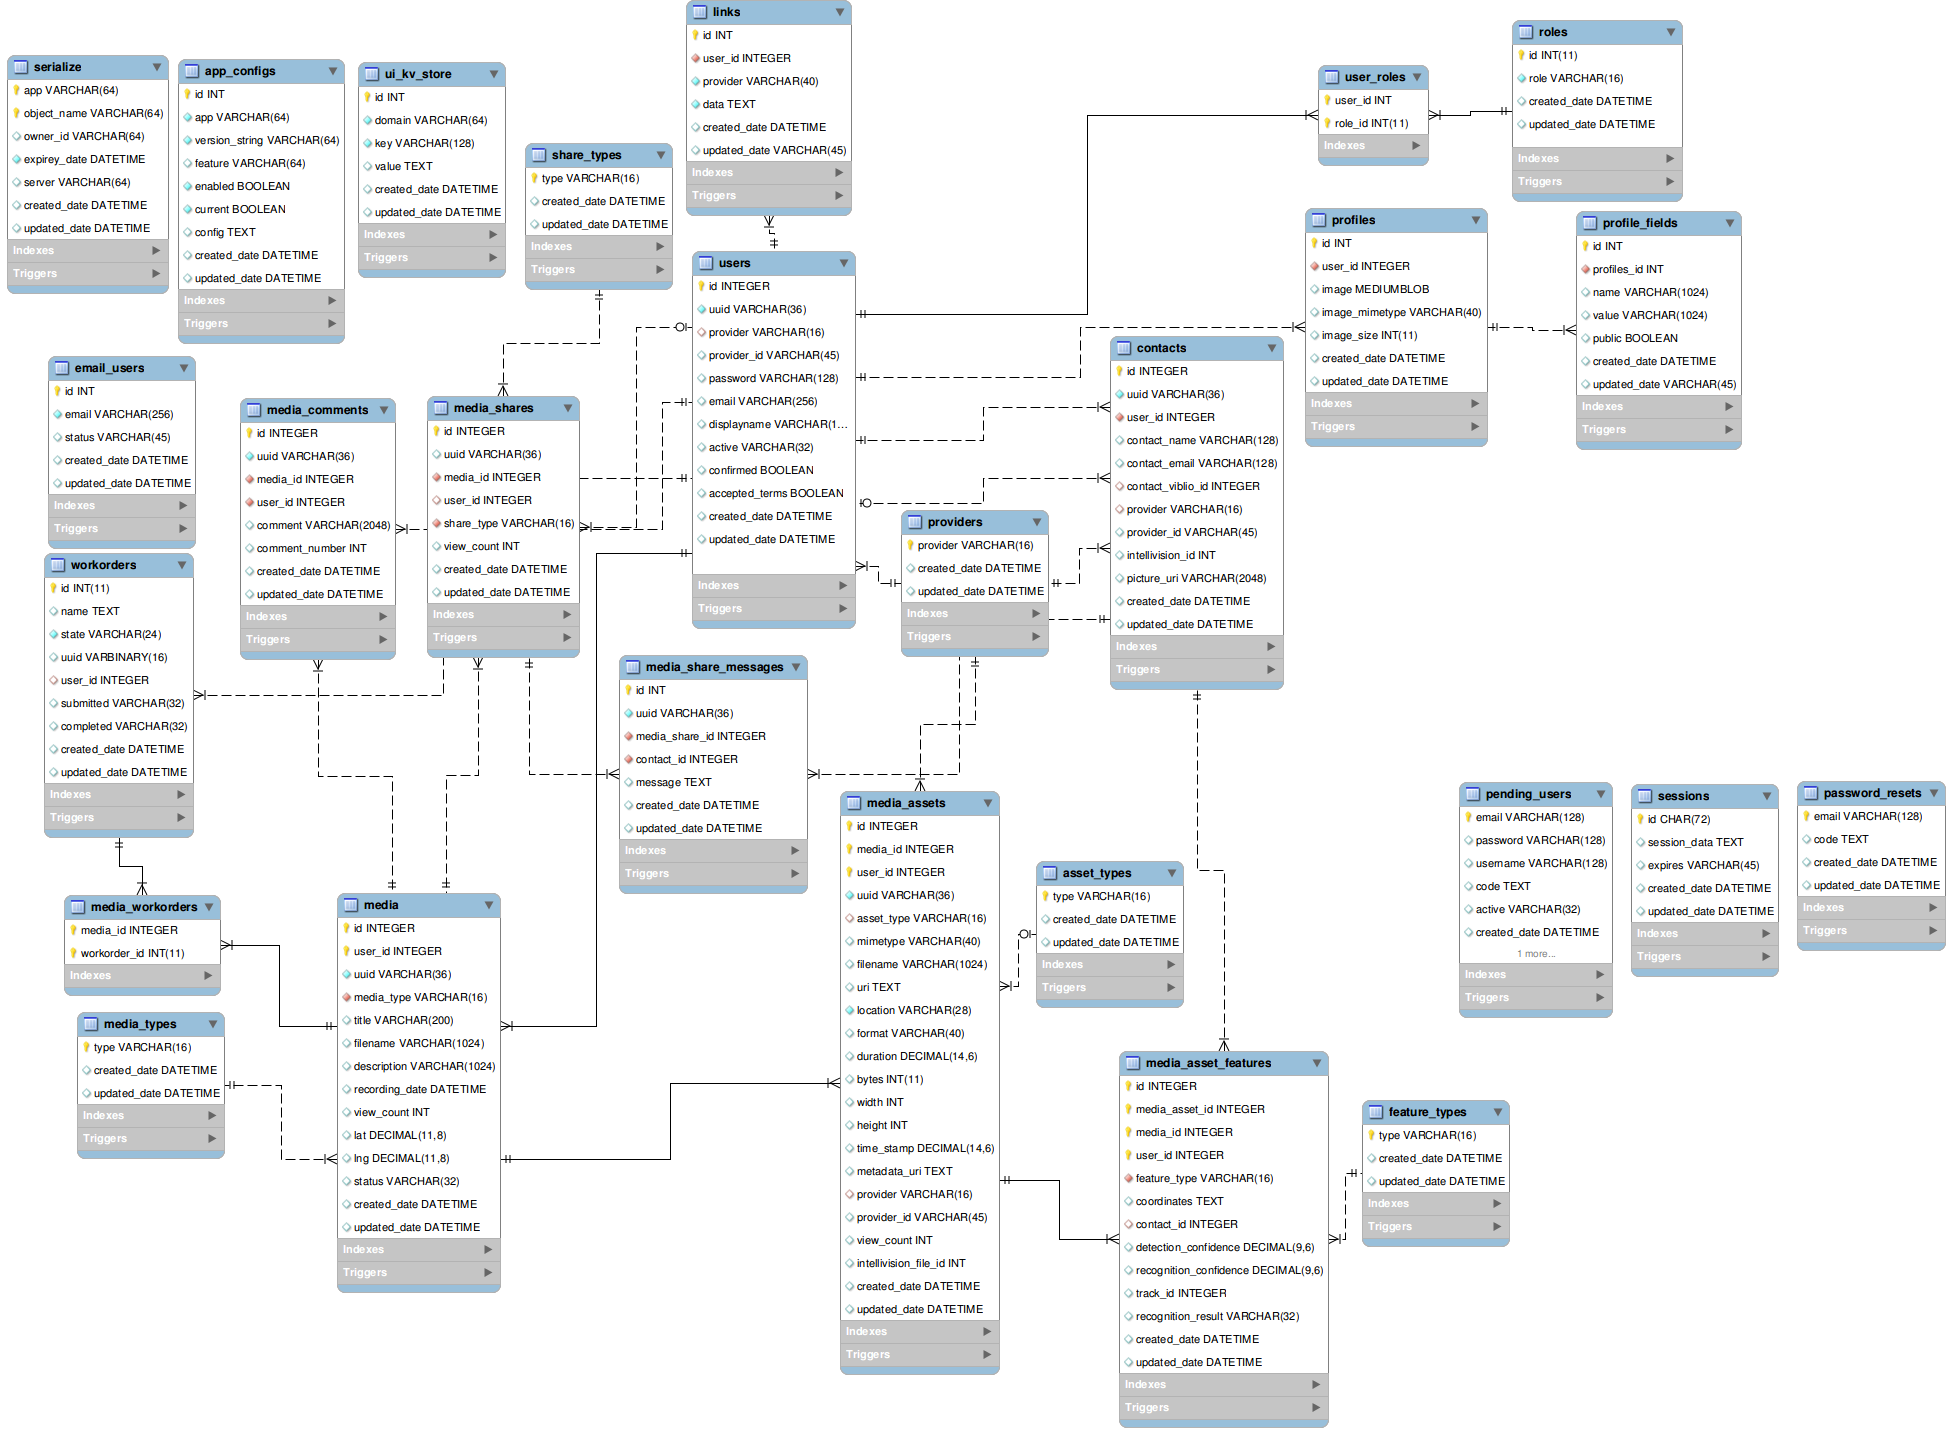
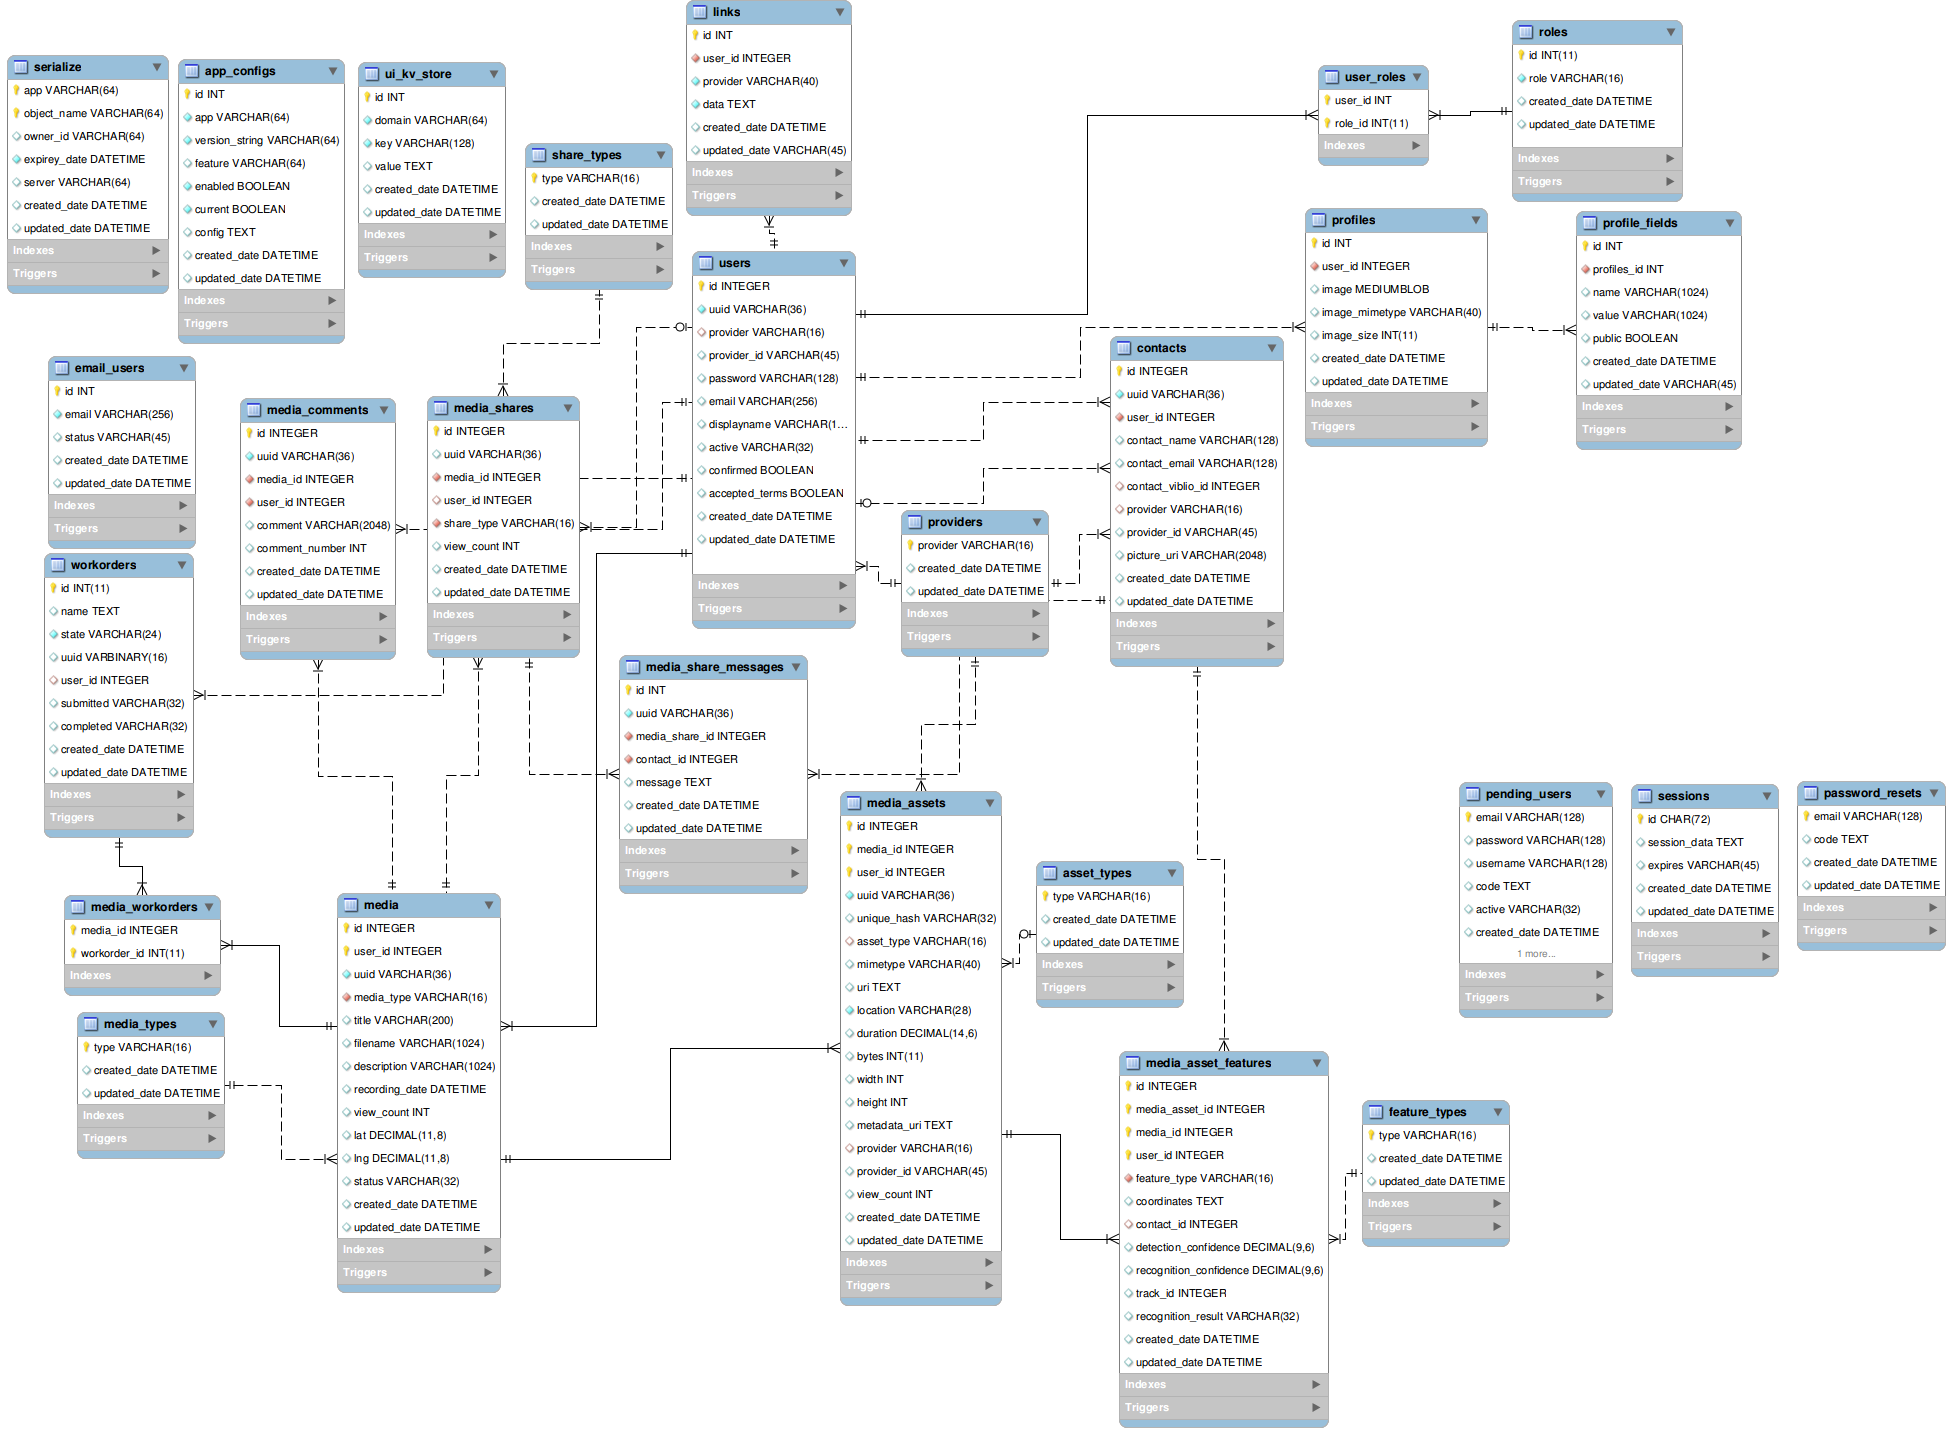
Server side file de-duplication

Changed region(s): [[0.405, 0.622, 0.5296, 0.9641], [0.5608, 0.3732, 0.6542, 0.4976]]

diff --git a/popeye/worker.py b/popeye/worker.py
@@ -2,6 +2,7 @@
 import boto.swf.layer2 as swf
 import datetime
 import fcntl
+import hashlib
 import hmac
 import json
 import logging
@@ -178,6 +179,48 @@ class Worker( Background ):
         if 'finalLength' in self.data['info'] and self.data['info']:
             log.debug( 'JSON finalLength is: ' + str( self.data['info']['finalLength'] ) )
 
+        # Check if we've already seen this file for this user.
+        unique_hash = None
+        try:
+            log.info( 'Computing MD5SUM for input file: %s' % ( files['main']['ifile'] ) )
+            
+            f = open( files['main']['ifile'], 'rb' )
+            md5 = hashlib.md5()
+            while True:
+                file_data = f.read( 1048576 )
+                if not file_data:
+                    break
+                md5.update( file_data )
+            unique_hash = md5.hexdigest()
+            f.close()
+
+            log.debug( 'Getting the current user from the database for uid: %s' % ( self.data['info']['uid'] ) )
+            user = orm.query( Users ).filter_by( uuid = self.data['info']['uid'] ).one()
+
+            log.debug( 'Checking uniqueness of file with hash %s for uid %s' % ( unique_hash, self.data['info']['uid'] ) )
+            db_files = orm.query( Media ).filter( and_( Media.user_id == user.id, Media.unique_hash == unique_hash ) ).all()
+
+            if len( db_files ) == 0:
+                log.info( 'File with hash %s for user uuid %s is unique, proceeding.' % ( unique_hash, self.data['info']['uid'] ) )
+            else:
+                log.info( 'File with hash %s for user uuid %s is not unique, terminating.' % ( unique_hash, self.data['info']['uid'] ) )
+                self.handle_errors()
+                self.__release_lock()
+                if self.popeye_logging_handler:
+                    self.popeye_log.removeHandler( self.popeye_logging_handler )
+                    self.popeye_logging_handler = None
+                return
+
+        except Exception as e:
+            self.__safe_log( self.popeye_log.exception, 'Failed to determine uniqueness of uploaded file: %s' % ( e ) )
+            self.handle_errors()
+            self.__release_lock()
+            if self.popeye_logging_handler:
+                self.popeye_log.removeHandler( self.popeye_logging_handler )
+                self.popeye_logging_handler = None
+            raise
+
+
         # Load data from _metadata.json into self.data['metadata']
         log.info( 'Initializing metadata field from JSON file: ' + files['metadata']['ifile'] )
         self.__initialize_metadata( files['metadata']['ifile'] )
@@ -232,7 +275,8 @@ class Worker( Background ):
                            filename       = client_filename,
                            title          = media_title,
                            view_count     = 0,
-                           status         = 'PopeyeComplete' )
+                           status         = 'PopeyeComplete',
+                           unique_hash    = unique_hash )
 
             # Associate media with user.
             user.media.append( media )
